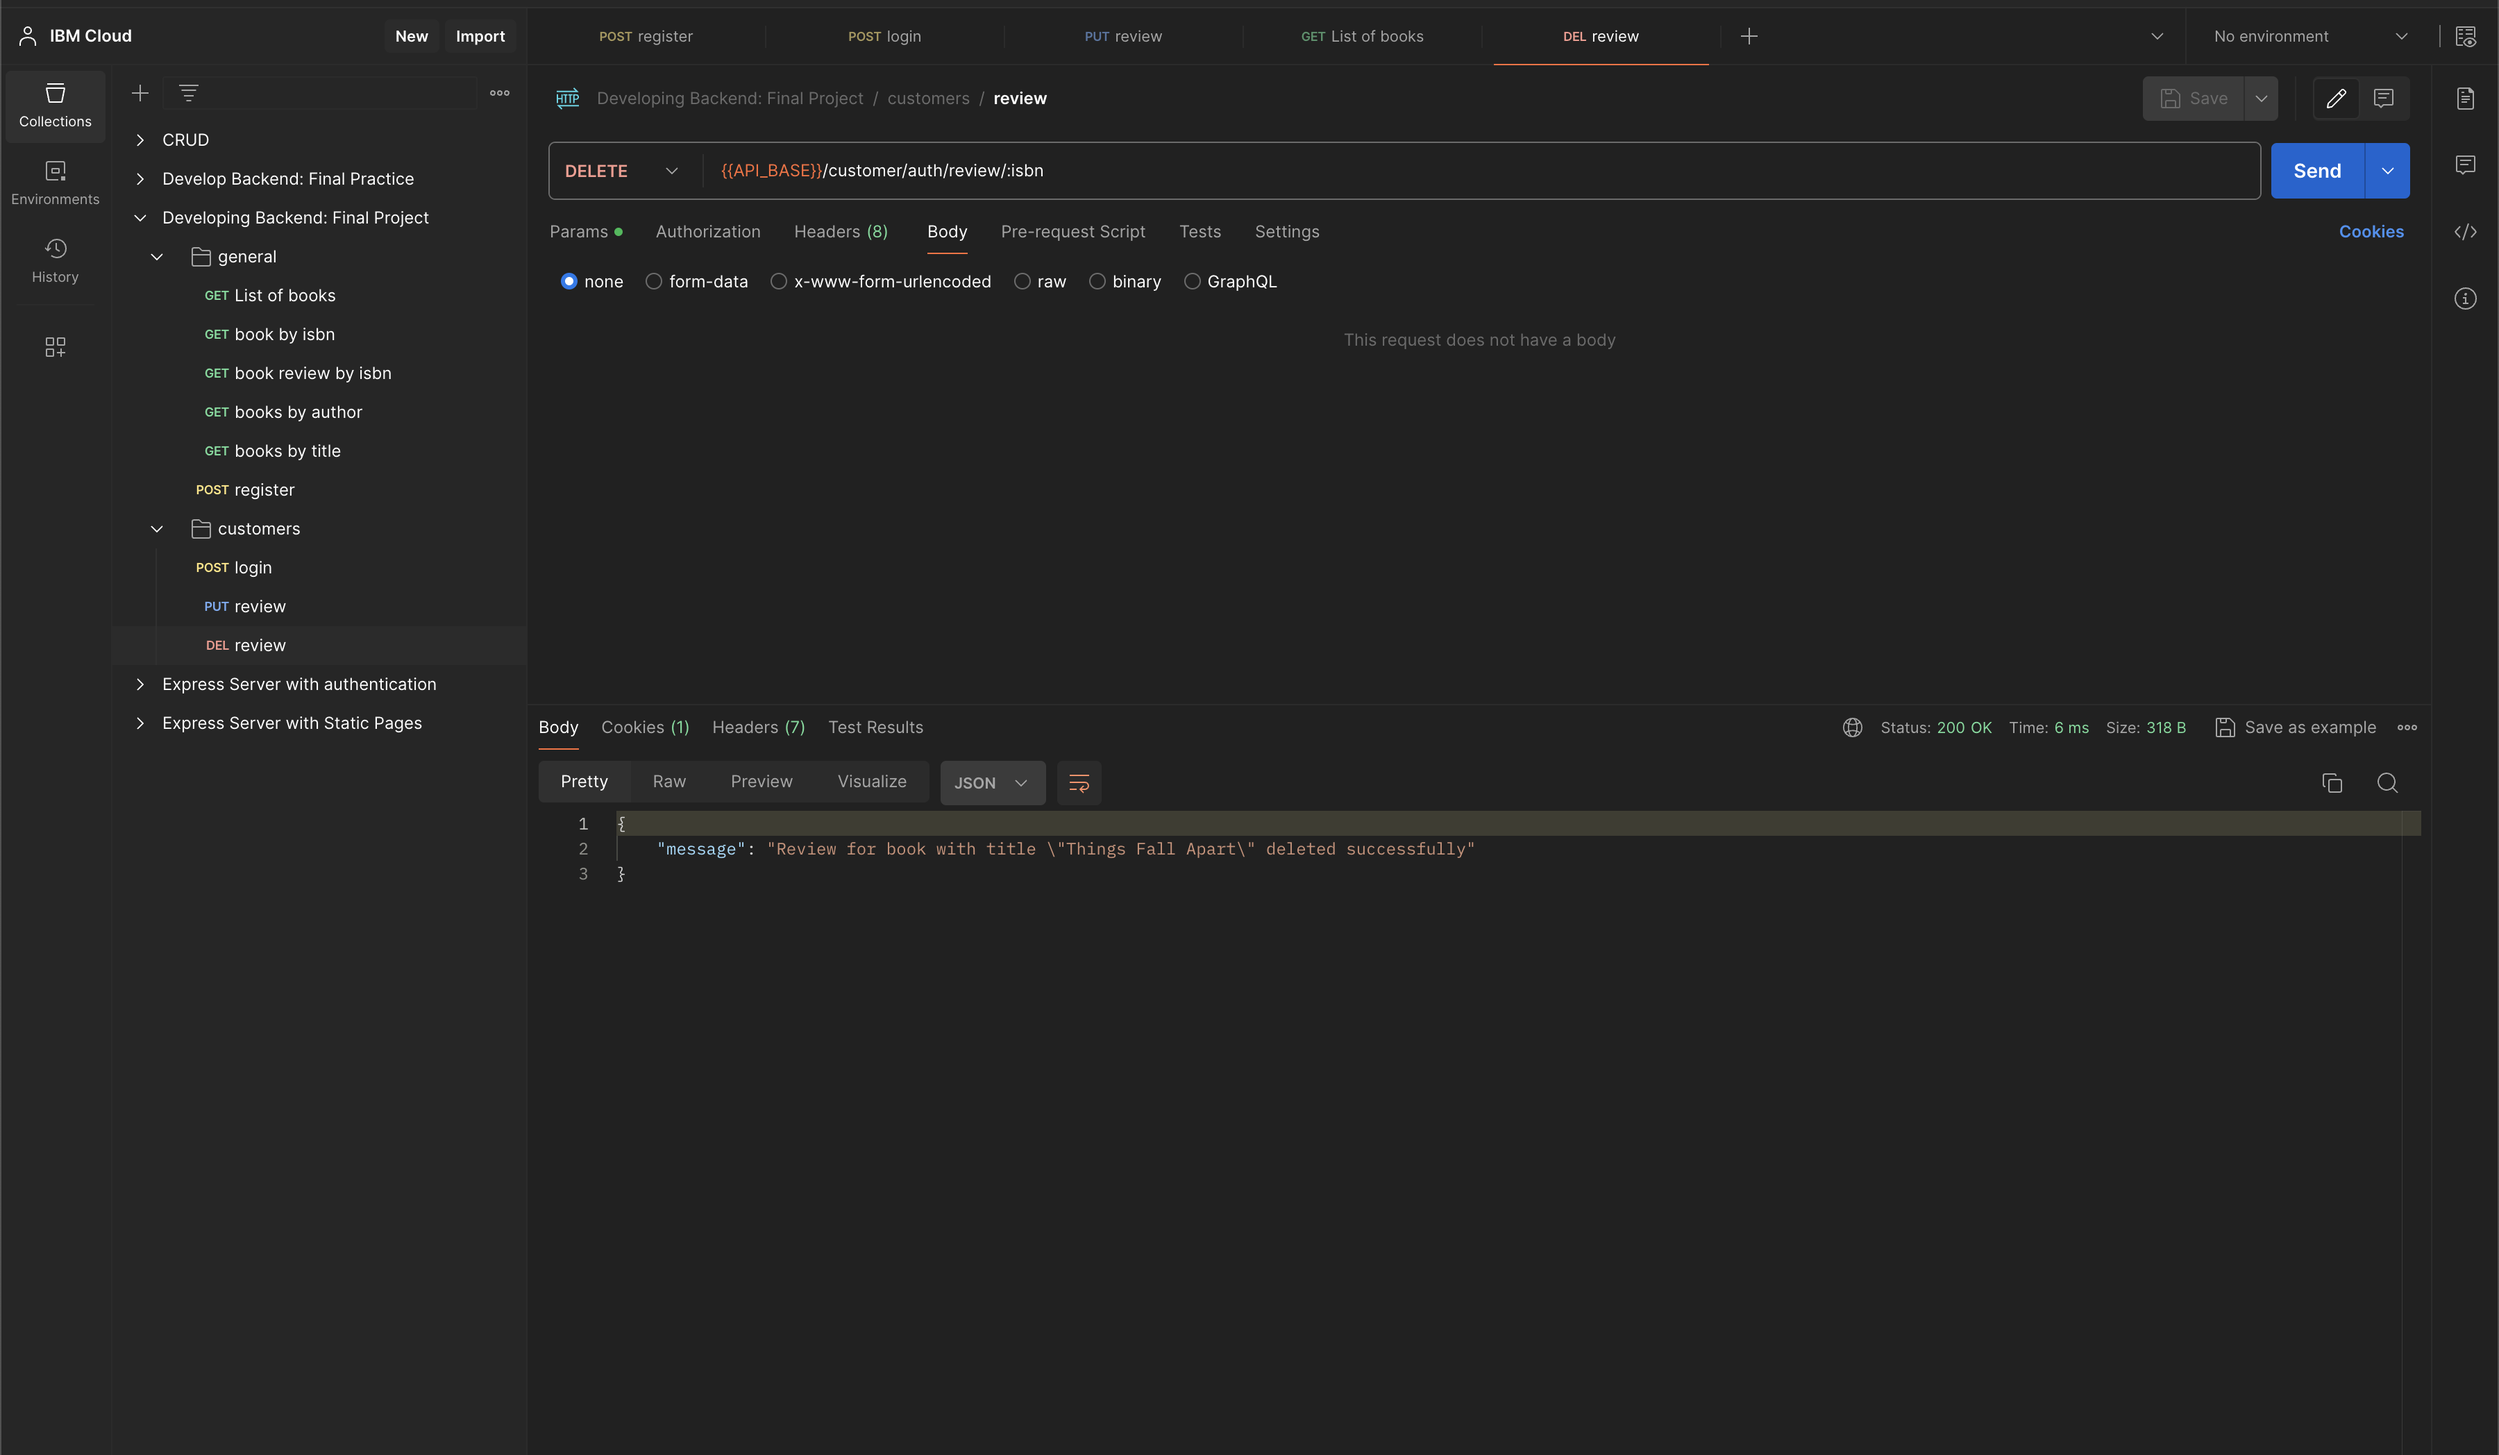
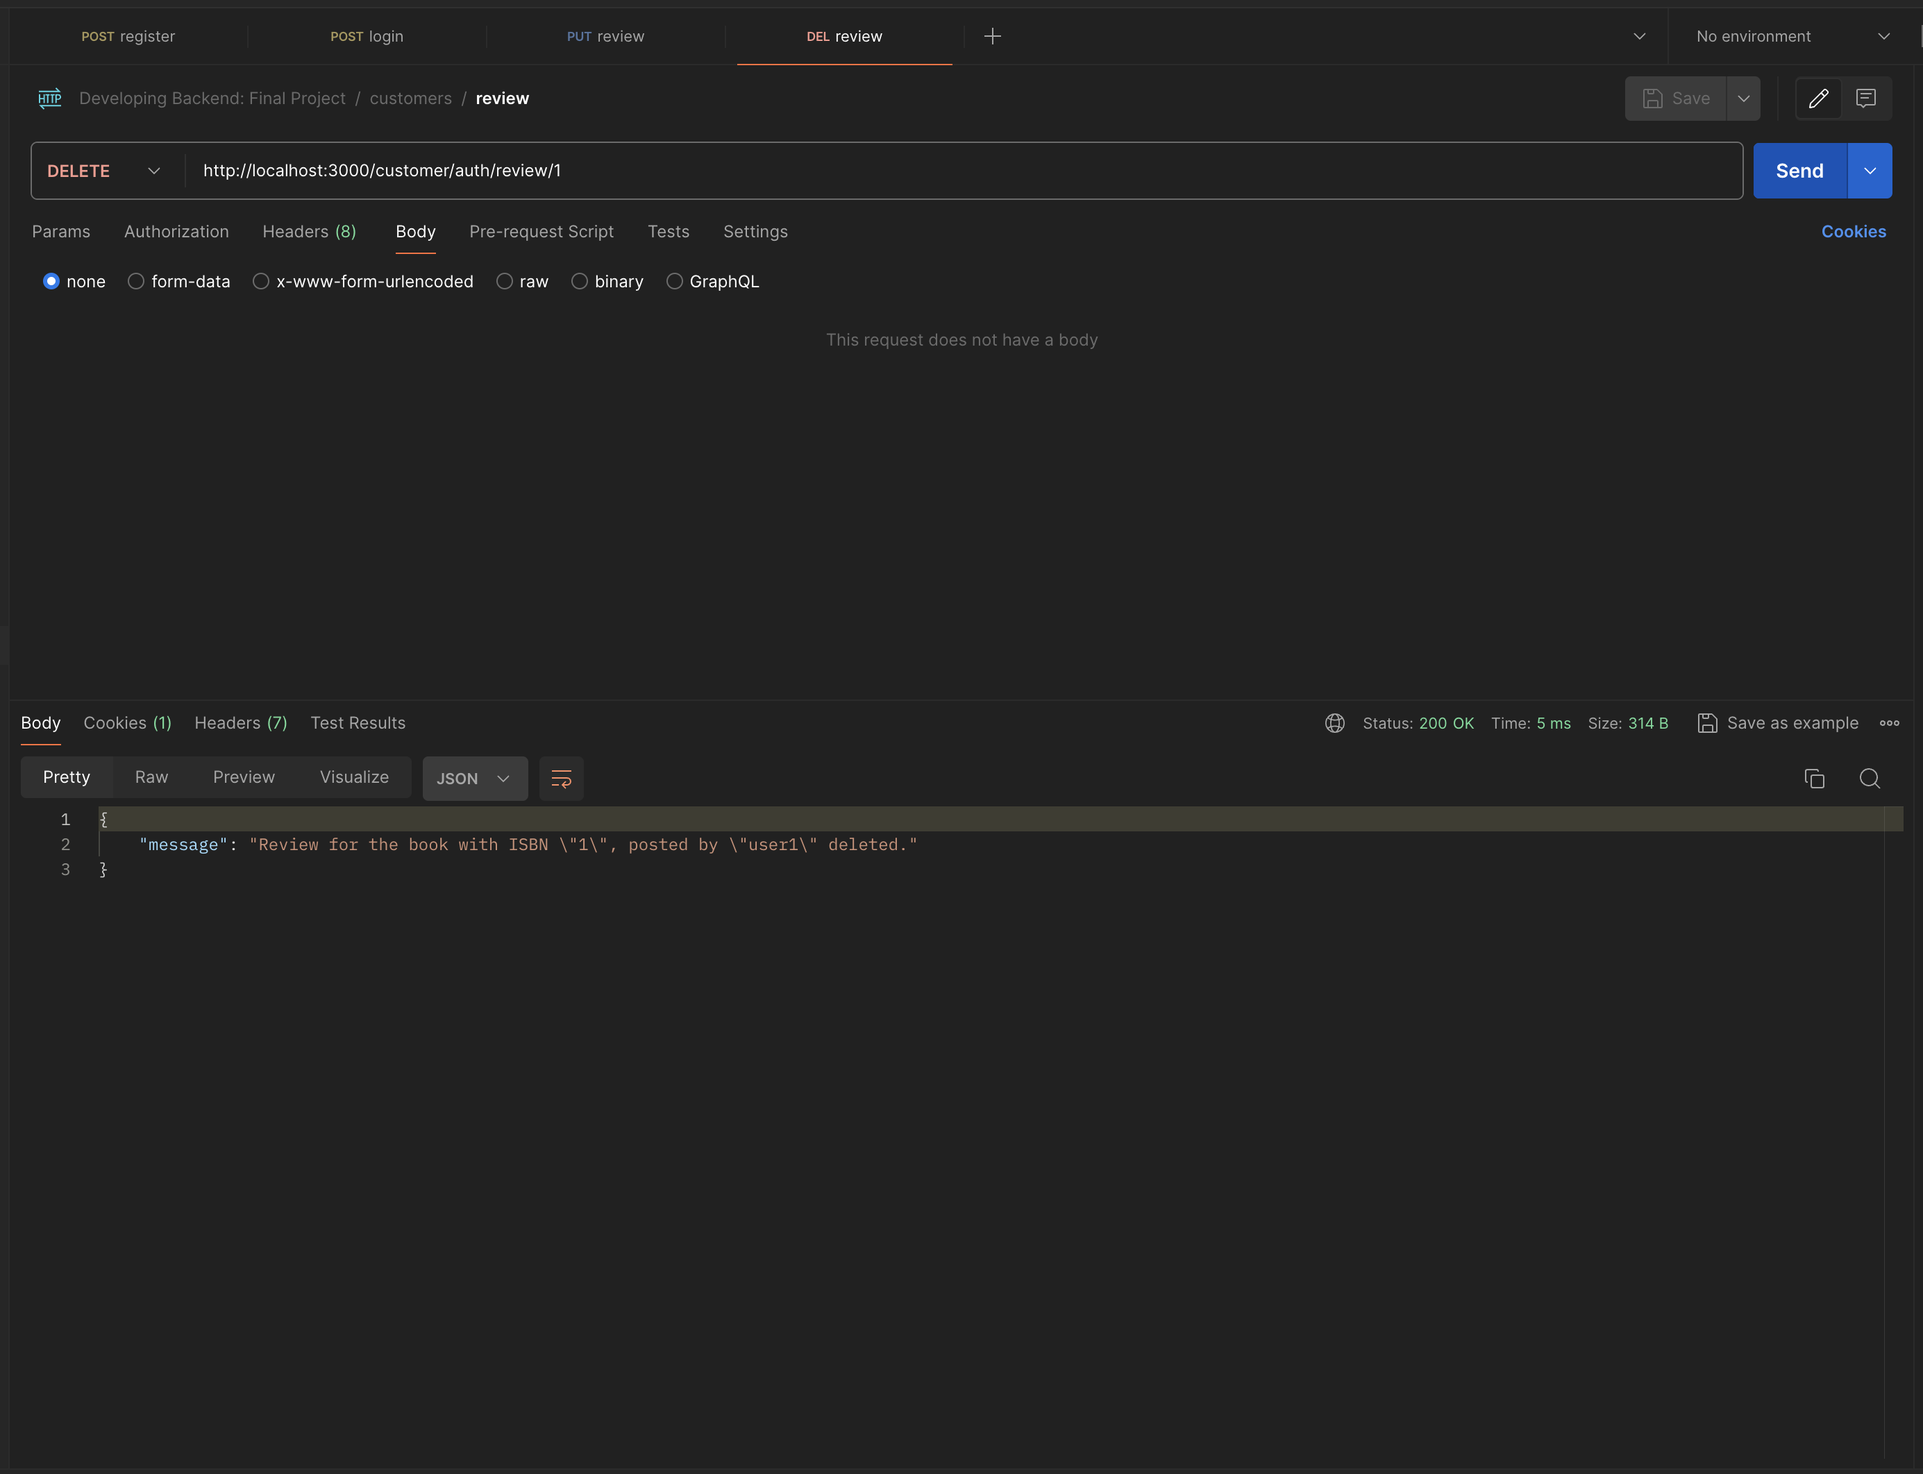
simplify task 9 screenshot

diff --git a/final_project/router/auth_users.js b/final_project/router/auth_users.js
@@ -74,7 +74,7 @@ registered_users.delete("/auth/review/:isbn", (request, response) => {
 
   delete books[isbn].reviews[username];
 
-  return response.status(200).json({ message: `Review for book with title "${books[isbn].title}" deleted successfully` });
+  return response.status(200).json({ message: `Review for the book with ISBN "${isbn}", posted by "${username}" deleted.` });
 });
 
 module.exports.users = users;
